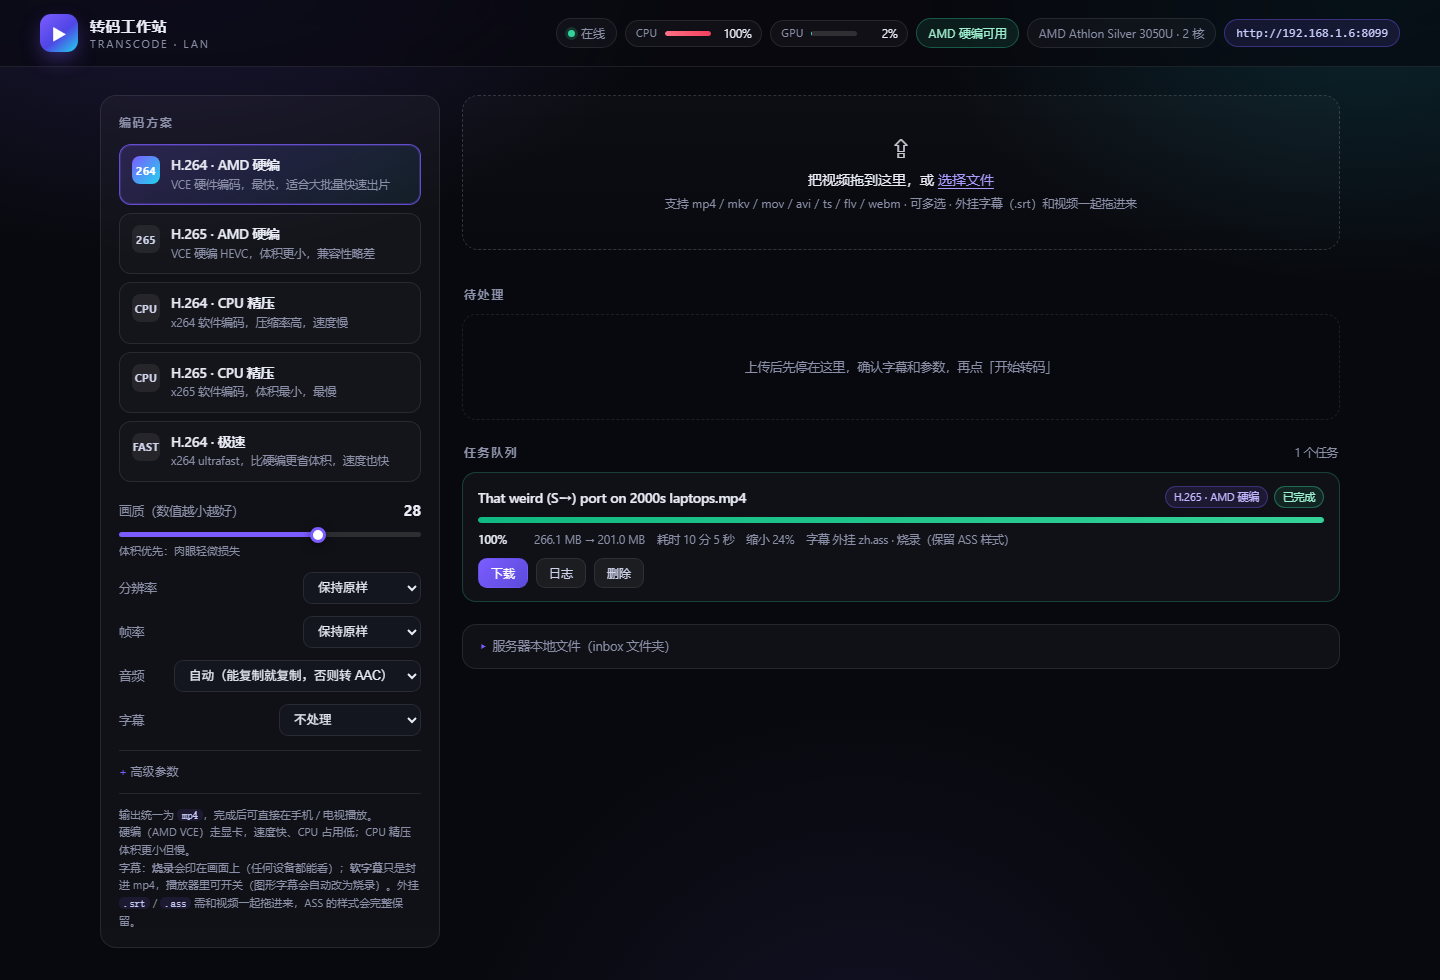
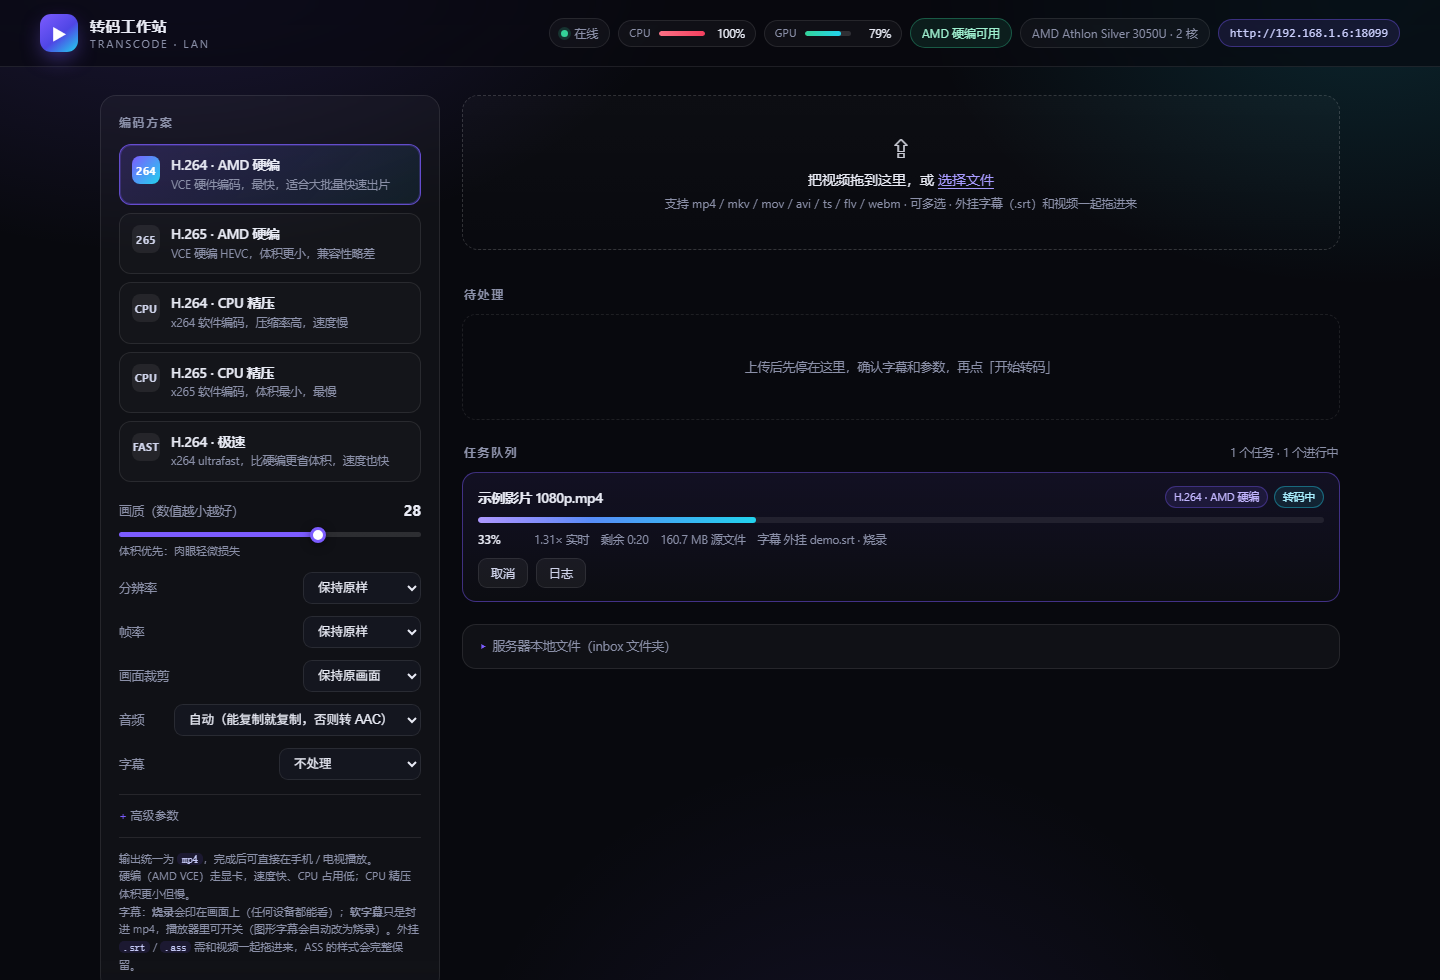
docs: point the quick start at Releases, refresh the screenshot, proxy support
- README (zh + en): the quick start now leads with "download the -full
  bundle", since building from source is no longer the primary path
- docs/screenshot.png regenerated: shows the new cropping dropdown, a
  running job with progress/ETA/subtitle tag and the GPU codec meter
- get-binaries.ps1: add -Proxy for networks where github.com is blocked,
  and print actionable instructions when a download fails

diff --git a/README.en.md b/README.en.md
@@ -64,6 +64,11 @@ ships .NET Framework 4.8). One exe plus one web page turns an idle office PC int
 
 ## 3. Quick start
 
+**Easiest: grab a release.** The `transcode-lan-1.0.0-win-x64-full.zip` archive under
+[Releases](https://github.com/qiorz/transcode-lan/releases) already contains HandBrakeCLI and
+FFmpeg — unzip it and double-click `启动服务.bat`. No Git, no build step.
+The four steps below are only needed if you want to change or rebuild the code.
+
 ```powershell
 # 1. clone
 git clone https://github.com/qiorz/transcode-lan.git

diff --git a/README.md b/README.md
@@ -57,6 +57,10 @@
 
 ## 三、快速开始
 
+**最省事：直接下载发行包。** [Releases](https://github.com/qiorz/transcode-lan/releases) 里的
+`transcode-lan-1.0.0-win-x64-full.zip` 已经包含 HandBrakeCLI 和 ffmpeg —— 解压后双击 `启动服务.bat` 就能用，
+不需要装 Git，也不需要编译。只有想改代码或自己构建时才需要看下面四步。
+
 ```powershell
 # 1. 克隆
 git clone https://github.com/qiorz/transcode-lan.git
